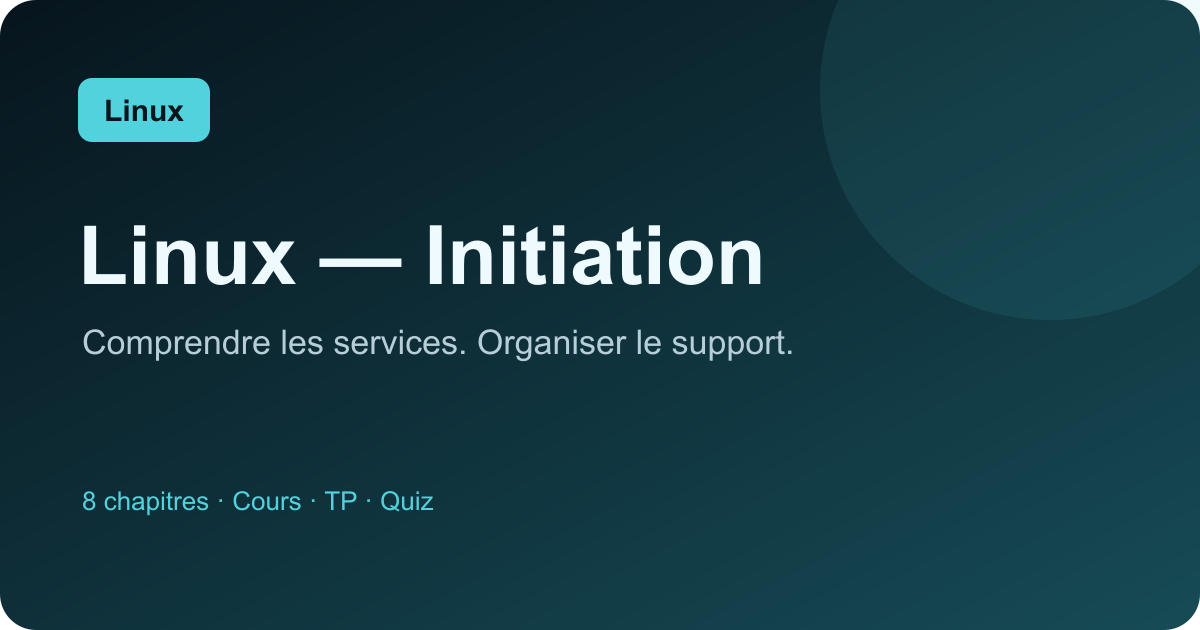
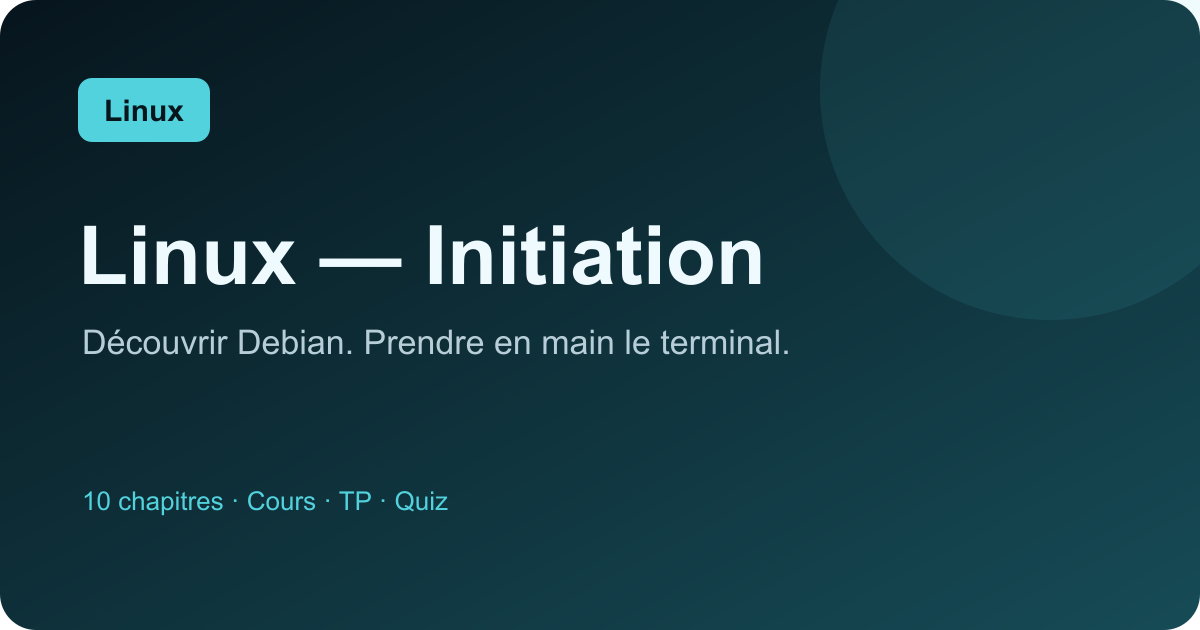
Finaliser le modèle de quiz et les supports Linux

Changed region(s): [[0.0617, 0.5127, 0.6783, 0.573], [0.0617, 0.754, 0.37, 0.8143]]

diff --git a/site-content/quiz-template.html b/site-content/quiz-template.html
@@ -10,9 +10,9 @@
     <script defer src="../../assets/quiz/quiz-engine.js"></script>
   </head>
   <body>
-    <main class="quiz-shell" data-quiz="01-comprendre-linux">
+    <main class="quiz-shell" data-quiz="__CHAPTER__">
       <nav class="quiz-topbar" aria-label="Navigation du quiz">
-        <a class="quiz-back" id="chapter-link" href="../01-comprendre-linux"
+        <a class="quiz-back" id="chapter-link" href="../__CHAPTER__"
           >← Retour au chapitre</a
         ><span class="quiz-brand">Linux — Initiation</span>
       </nav>
@@ -61,7 +61,7 @@
         </div>
         <div class="result-actions">
           <button class="primary-button" id="restart-quiz" type="button">Recommencer</button
-          ><a class="secondary-button" id="result-course-link" href="../01-comprendre-linux"
+          ><a class="secondary-button" id="result-course-link" href="../__CHAPTER__"
             >Revoir le chapitre</a
           >
         </div>
